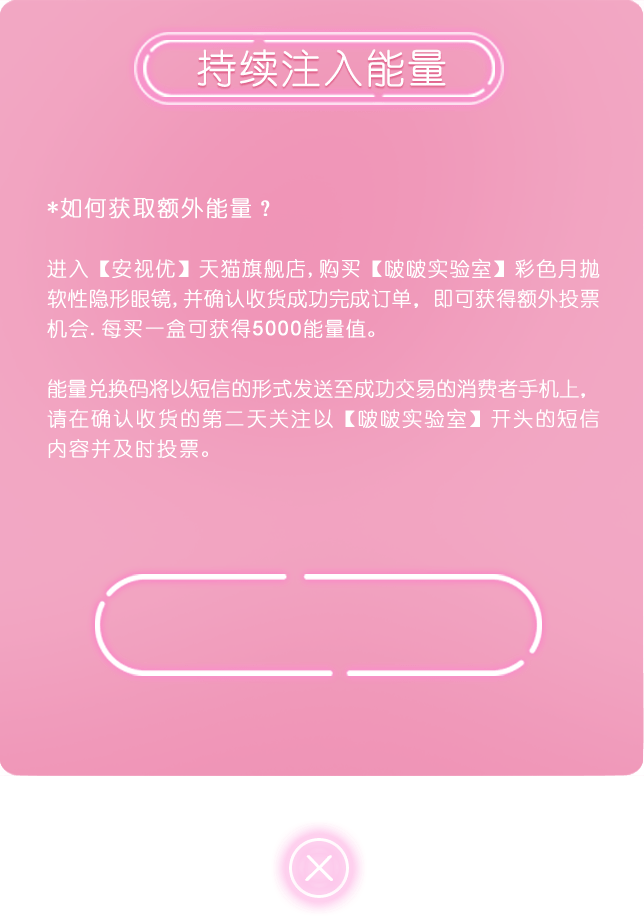
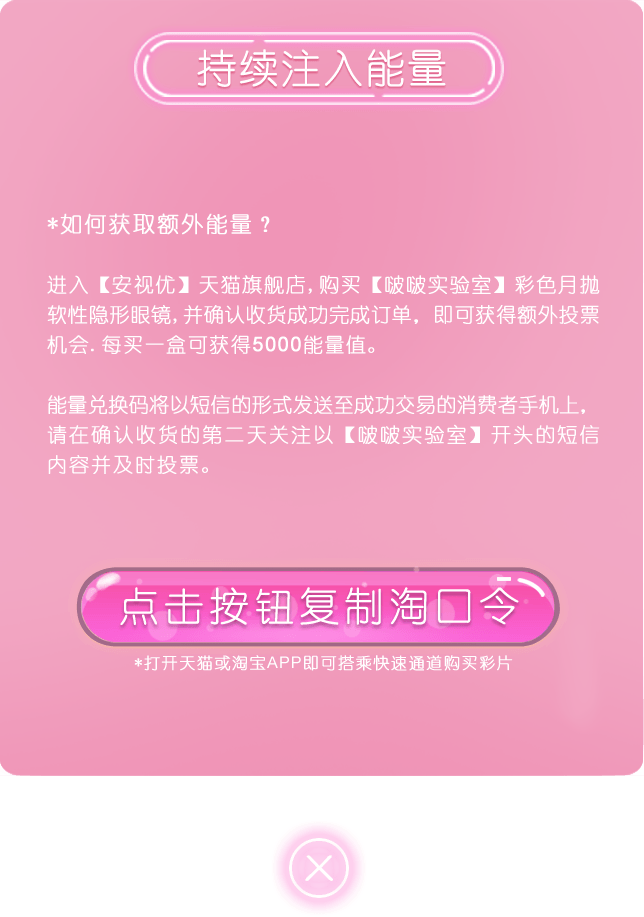
修改

Changed region(s): [[0.0621, 0.2137, 0.9317, 0.5191], [0.0932, 0.6107, 0.8696, 0.7634]]

diff --git a/index.html b/index.html
@@ -76,10 +76,11 @@
                     <img src="images/lotteryBox/t.png" class="title">
                     <p class="giftname">获得啵啵实验室彩色月抛软性隐形眼镜<br><span>10元优惠券</span></p>
                     <img src="images/lotteryBox/a1.png" class="gift">
-                    <p class="tips">复制一下淘口令</p>
+                    <!-- <p class="tips">复制一下淘口令</p>
                     <div class="ckoulin">xxxxxxxxx<br>
                         打开淘宝，即可领取！
-                    </div>
+                    </div> -->
+                    <div class="copyBtn2"></div>
                     <p class="tips">
                         *啵啵小提示：<br><span>购买啵啵实验室™彩色隐形眼镜限时送泡泡玛特潘神甜品系列盲盒<br>优惠券淘口令最长的有效时间是30天,记得及时领取并在有效截至日期之前使用~</span>
                     </p>
@@ -280,14 +281,16 @@
             <div class="cont">
                 <!-- <input type="text" id="EXenergyCode" placeholder="请输入能量兑换码"> -->
                 <!-- <div class="confirmBtn"></div> -->
-                <p>前方指路，复制以下淘口令<br>xxxxxxxxx<br>打开淘宝，下单冲鸭！</p>
+                <!-- <p>前方指路，复制以下淘口令<br>xxxxxxxxx<br>打开淘宝，下单冲鸭！</p> -->
+                <div class="copyBtn1"></div>
                 <a class="close"></a>
             </div>
         </aside>
 
         <aside id="addEnergy" class="none">
             <div class="cont">
-                <p>前方指路，复制以下淘口令<br>xxxxxxxxx<br>打开淘宝，下单冲鸭！</p>
+                <!-- <p>前方指路，复制以下淘口令<br>xxxxxxxxx<br>打开淘宝，下单冲鸭！</p> -->
+                <div class="copyBtn1"></div>
                 <input type="text" id="addEnergyCode" placeholder="请输入能量兑换码">
                 <div class="confirmBtn"></div>
                 <a class="close"></a>

diff --git a/css/index.css b/css/index.css
@@ -559,6 +559,12 @@ input::-webkit-input-placeholder, textarea::-webkit-input-placeholder {
 
 /* resultBox end */
 
+#lotteryBox .copyBtn2{
+	width: 5.04rem;
+	height: 1.11rem;
+	margin: 0 auto 0.15rem;
+	background-image: url(../images/public/btn.png);
+}
 #lotteryBox .cont {
 	position: absolute;
 	top: 50%;
@@ -975,8 +981,10 @@ input::-webkit-input-placeholder, textarea::-webkit-input-placeholder {
 }
 /* rankBox end */
 
-#exchangeEnergy{
-
+#exchangeEnergy .copyBtn1{
+	width: 5.04rem;
+	height: 1.11rem;
+	margin: 5.5rem auto 0;
 }
 #exchangeEnergy .cont{
 	position: absolute;
@@ -1045,6 +1053,11 @@ input::-webkit-input-placeholder, textarea::-webkit-input-placeholder {
 	line-height: 1.2;
 	text-align: center;
 	padding-top: 2.55rem;
+}
+#addEnergy .copyBtn1{
+	width: 5.04rem;
+	height: 1.11rem;
+	margin: 2.25rem auto 0;
 }
 #addEnergy .cont .close{
 	position: absolute;

diff --git a/js/index.js b/js/index.js
@@ -91,6 +91,7 @@ $(document).ready(function () {
 		loader.addImage('images/public/bubble.png');
 		loader.addImage('images/public/logo.png');
 		loader.addImage('images/public/ruleBtn.png');
+		loader.addImage('images/public/btn.png');
 
 		loader.addCompletionListener(function () {
 			icom.fadeIn(articleBox);
@@ -434,6 +435,16 @@ $(document).ready(function () {
 			if (os.screenProp < 0.54) articleBox.addClass("screen189");
 			if (os.screenProp > 0.64) articleBox.addClass("screen159");
 		});
+
+		icom.clipboard($(".copyBtn1"),"￥PjMsYNdO7QU￥",showCopySuccess);
+		icom.clipboard($(".copyBtn2"),"￥PjMsYNdO7QU￥",showCopySuccess);
+	}
+
+	/**
+	 * 显示拷贝成功
+	 */
+	function showCopySuccess(){
+		showTipsBox("复制成功<br>赶快打开淘宝查看吧");
 	}
 
 	/**

diff --git a/js/energy.js b/js/energy.js
@@ -91,6 +91,7 @@ $(document).ready(function () {
 		loader.addImage('images/public/bubble.png');
 		loader.addImage('images/public/logo.png');
 		loader.addImage('images/public/ruleBtn.png');
+		loader.addImage('images/public/btn.png');
 
 		loader.addCompletionListener(function () {
 			icom.fadeIn(articleBox);
@@ -429,6 +430,16 @@ $(document).ready(function () {
 		rankScroll.on("scrollEnd", requestNextRankList);
 
 		shareBox.find(".closeBtn").on("touchend",hideShareBox);
+
+		icom.clipboard($(".copyBtn1"),"￥PjMsYNdO7QU￥",showCopySuccess);
+		icom.clipboard($(".copyBtn2"),"￥PjMsYNdO7QU￥",showCopySuccess);
+	}
+
+	/**
+	 * 显示拷贝成功
+	 */
+	function showCopySuccess(){
+		showTipsBox("复制成功<br>赶快打开淘宝查看吧");
 	}
 
 	/**
